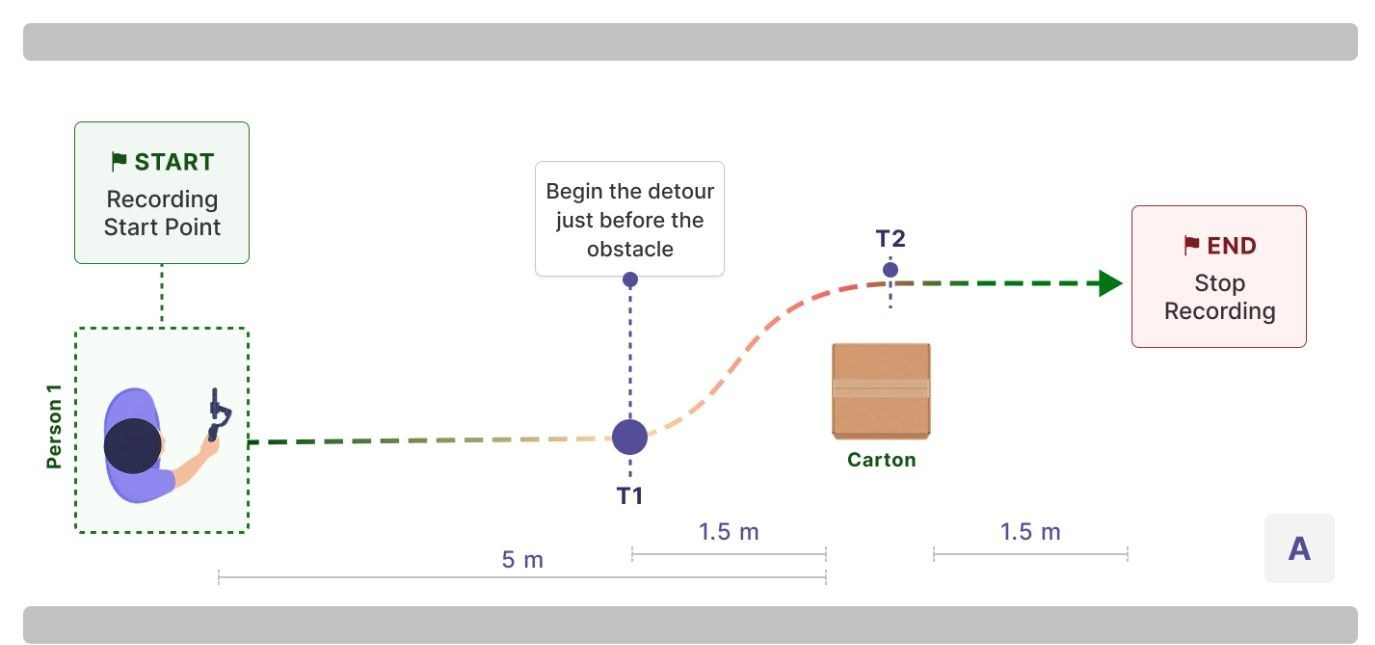
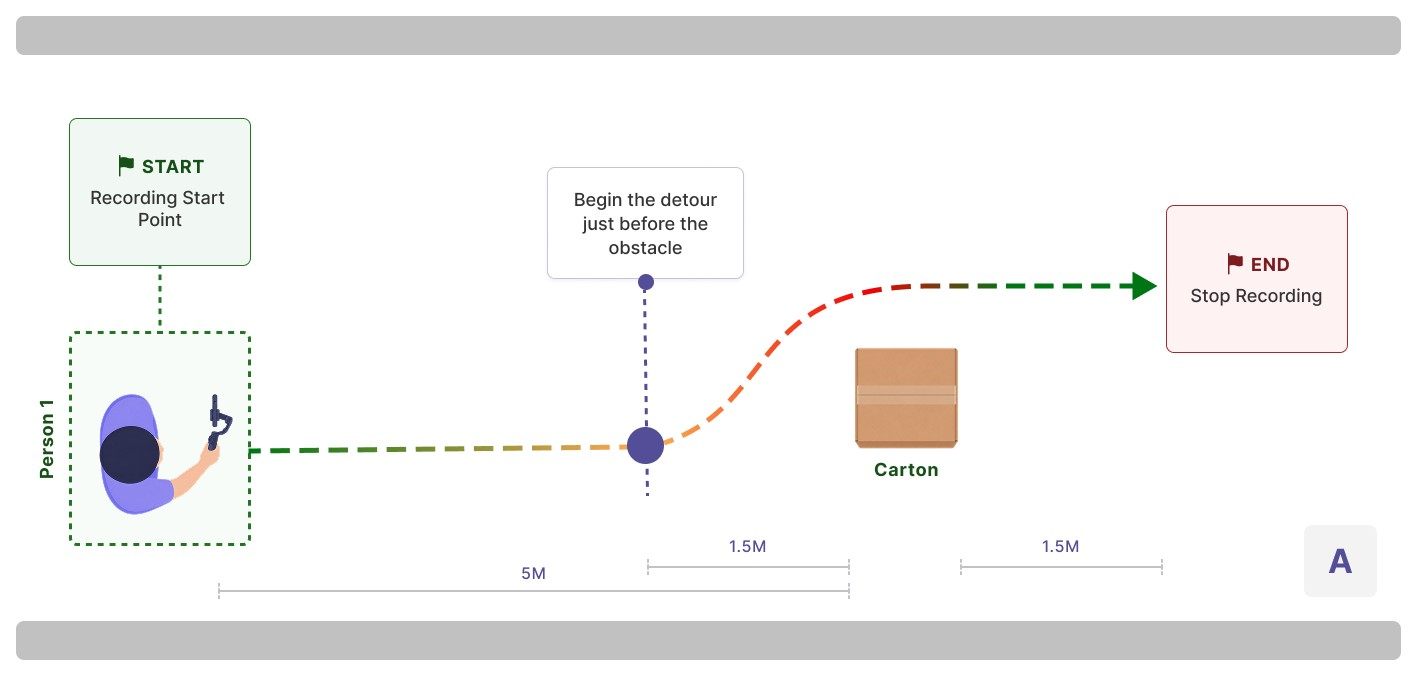
Atualiza conteúdo e imagens do site
- Adiciona captura real do aplicativo e novos diagramas do protocolo,
  incluindo o cenário de caminho livre
- Adiciona link da pasta de imagens da base e e-mail de contato
- Revisa textos das seções Sobre, Base de dados, Metodologia,
  Publicações e Equipe

Claude-Session: https://claude.ai/code/session_012tSK8fbYagcHTFUYDj29Mi

diff --git a/index.html b/index.html
@@ -151,15 +151,13 @@ section{padding:112px 0}
 .intro-grid{display:grid;grid-template-columns:.85fr 1.15fr;gap:56px;align-items:center;margin-top:80px}
 .intro-copy h3{font-size:clamp(28px,3vw,38px);font-weight:600;margin:18px 0 16px}
 .intro-copy p{color:var(--ink-2)}
-.collage{display:grid;grid-template-columns:1.25fr .95fr;grid-template-rows:auto auto;gap:16px;align-items:start}
+.collage{display:grid;grid-template-columns:1fr 1fr;gap:16px;align-items:start}
 .c-card{margin:0;background:var(--surface);border-radius:var(--radius-l);overflow:hidden;box-shadow:var(--shadow);position:relative}
 .c-card img{width:100%;height:auto;background:#fff}
-.c-card figcaption{padding:12px 16px 14px;font-size:14px;color:var(--ink-2);line-height:1.45}
-.c-card figcaption strong{color:var(--ink);display:block;font-size:15px}
 .c-card .tag{position:absolute;top:12px;left:12px;font-size:12px;font-weight:600;background:rgba(13,21,32,.82);color:#fff;padding:4px 10px;border-radius:999px}
-.collage .c-c{grid-row:1/3;grid-column:2;margin-top:48px}
-@media (max-width:900px){.intro-grid{grid-template-columns:1fr;gap:40px}.collage{grid-template-columns:1fr 1fr}.collage .c-c{margin-top:0}}
-@media (max-width:560px){.collage{grid-template-columns:1fr}.collage .c-c{grid-row:auto;grid-column:auto}.collage .c-c img{max-height:440px;object-fit:contain}.big-statement .l2{padding-left:0}.big-statement{font-size:clamp(34px,10vw,44px)}}
+.collage .c-card:nth-child(even){margin-top:36px}
+@media (max-width:900px){.intro-grid{grid-template-columns:1fr;gap:40px}}
+@media (max-width:560px){.collage{grid-template-columns:1fr}.collage .c-card:nth-child(even){margin-top:0}.big-statement .l2{padding-left:0}.big-statement{font-size:clamp(34px,10vw,44px)}}
 
 /* =========================================================
    Sobre
@@ -180,17 +178,18 @@ section{padding:112px 0}
 /* =========================================================
    Base de dados
    ========================================================= */
-.events{display:grid;grid-template-columns:repeat(3,1fr);gap:16px;margin-bottom:56px}
+.events{display:grid;grid-template-columns:1fr 1fr;gap:16px;margin-bottom:20px}
 .event{margin:0;background:var(--surface);border-radius:var(--radius-l);overflow:hidden;box-shadow:var(--shadow);display:flex;flex-direction:column}
-.event .img{background:#fff;aspect-ratio:4/3;display:grid;place-items:center;padding:10px;border-bottom:1px solid var(--line)}
+.event .img{background:#fff;aspect-ratio:2/1;display:grid;place-items:center;padding:10px;border-bottom:1px solid var(--line)}
 .event .img{overflow:hidden}
-.event .img img{width:100%;height:100%;object-fit:contain}
+.event .img{position:relative}
+.event .img img{position:absolute;inset:10px;width:calc(100% - 20px);height:calc(100% - 20px);object-fit:contain}
 .event figcaption{padding:18px 20px 22px}
 .event figcaption h3{font-size:20px;font-weight:600;margin-bottom:6px;display:flex;gap:10px;align-items:center}
 .event figcaption h3 span{font-family:var(--mono);font-size:12px;font-weight:500;background:var(--sand);padding:2px 8px;border-radius:6px;letter-spacing:0}
 .event figcaption p{color:var(--ink-2);font-size:15px;margin:0}
 .source{font-size:13px;color:var(--ink-2);margin-top:-36px;margin-bottom:56px}
-@media (max-width:900px){.events{grid-template-columns:1fr}}
+@media (max-width:720px){.events{grid-template-columns:1fr}}
 
 .data-grid{display:grid;grid-template-columns:1.1fr .9fr;gap:20px}
 .panel{background:var(--surface);border-radius:var(--radius-l);padding:32px;box-shadow:var(--shadow)}
@@ -215,11 +214,12 @@ section{padding:112px 0}
 .chip{font-family:var(--mono);font-size:13px;background:var(--paper);border:1px solid var(--line);border-radius:8px;padding:4px 10px}
 @media (max-width:520px){.label-row{grid-template-columns:1fr;gap:8px}}
 
-.access{margin-top:20px;display:grid;grid-template-columns:auto 1fr;gap:20px;align-items:center;background:var(--ochre-soft);border-radius:var(--radius-l);padding:26px 28px}
+.access{margin-top:20px;display:grid;grid-template-columns:auto 1fr auto;gap:20px;align-items:center;background:var(--ochre-soft);border-radius:var(--radius-l);padding:26px 28px}
 .access .ic{width:48px;height:48px;border-radius:14px;background:#fff;display:grid;place-items:center;color:var(--ochre)}
 .access .ic svg{width:24px;height:24px}
 .access h3{font-size:19px;font-weight:600;margin-bottom:4px}
 .access p{margin:0;color:#5A4630;font-size:15px}
+@media (max-width:760px){.access{grid-template-columns:auto 1fr}.access .btn{grid-column:1/-1;justify-content:center}}
 
 /* =========================================================
    Aplicativo
@@ -236,6 +236,9 @@ section{padding:112px 0}
 .phone{position:relative;width:min(300px,78vw);aspect-ratio:9/19.2;border-radius:46px;background:#0A0F18;padding:12px;box-shadow:0 30px 80px rgba(0,0,0,.45),inset 0 0 0 2px #2B3442}
 .phone-screen{width:100%;height:100%;border-radius:36px;overflow:hidden;background:linear-gradient(170deg,#0B2B4F,#041D38);display:flex;flex-direction:column;align-items:center;justify-content:center;text-align:center;padding:28px 22px;position:relative}
 .phone-screen::before{content:"";position:absolute;top:12px;left:50%;transform:translateX(-50%);width:84px;height:22px;border-radius:999px;background:#0A0F18}
+.phone-screen.shot{padding:0;background:#000;display:block}
+.phone-screen.shot::before{display:none}
+.phone-screen.shot img{display:block;width:100%;height:100%;object-fit:cover;border-radius:0;margin:0;box-shadow:none}
 .phone-screen img{width:96px;height:96px;border-radius:24px;margin-bottom:22px;box-shadow:0 10px 30px rgba(0,0,0,.35)}
 .phone-screen .app-name{font-family:var(--display);font-size:28px;font-weight:700;letter-spacing:-.03em}
 .phone-screen .app-ver{font-family:var(--mono);font-size:12px;color:rgba(255,255,255,.7);margin-top:4px}
@@ -319,7 +322,8 @@ section{padding:112px 0}
 /* =========================================================
    Repositórios e contato
    ========================================================= */
-.links-grid{display:grid;grid-template-columns:repeat(3,1fr);gap:16px}
+.links-grid{display:grid;grid-template-columns:repeat(4,1fr);gap:16px}
+@media (max-width:1100px){.links-grid{grid-template-columns:1fr 1fr}}
 .link-card{display:flex;flex-direction:column;gap:10px;background:var(--surface);border-radius:var(--radius-l);padding:28px;box-shadow:var(--shadow);text-decoration:none;color:var(--ink);transition:transform .2s ease,box-shadow .2s ease;border:1.5px solid transparent}
 a.link-card:hover{transform:translateY(-3px);box-shadow:0 14px 40px rgba(13,21,32,.1);color:var(--ink);border-color:var(--blue-soft)}
 .link-card .ic{width:44px;height:44px;border-radius:12px;background:var(--paper);display:grid;place-items:center}
@@ -329,7 +333,7 @@ a.link-card:hover{transform:translateY(-3px);box-shadow:0 14px 40px rgba(13,21,3
 .link-card .url{font-family:var(--mono);font-size:13px;color:var(--blue);margin-top:auto;word-break:break-all}
 .link-card.pending{background:transparent;box-shadow:none;border:1.5px dashed var(--line)}
 .link-card.pending .url{color:var(--ink-2)}
-@media (max-width:900px){.links-grid{grid-template-columns:1fr}}
+@media (max-width:620px){.links-grid{grid-template-columns:1fr}}
 
 /* rodapé */
 footer{background:var(--ink);color:rgba(255,255,255,.8);padding:72px 0 40px;margin:12px;border-radius:var(--radius-xl)}
@@ -479,7 +483,7 @@ footer{background:var(--ink);color:rgba(255,255,255,.8);padding:72px 0 40px;marg
       <dl>
         <div class="cell"><dt>Tipo de dado</dt><dd>Vídeo egocêntrico + sensores inerciais</dd></div>
         <div class="cell"><dt>Cenário</dt><dd>Ambientes internos, múltiplos locais</dd></div>
-        <div class="cell"><dt>Eventos</dt><dd>Desvio à esquerda, à direita e parada</dd></div>
+        <div class="cell"><dt>Eventos</dt><dd>Caminho livre, desvios à esquerda e à direita, parada</dd></div>
         <div class="cell"><dt>Coleta</dt><dd>Aplicativo Android SenseCV</dd></div>
       </dl>
       <a class="go" href="#sobre">Saiba mais <svg aria-hidden="true"><use href="#i-down"/></svg></a>
@@ -490,7 +494,6 @@ footer{background:var(--ink);color:rgba(255,255,255,.8);padding:72px 0 40px;marg
 <section class="intro" aria-labelledby="intro-title">
   <div class="wrap">
     <div class="intro-head reveal">
-      <span class="pill eyebrow"><span class="dot"></span>Projeto de pesquisa · IFCE</span>
       <h2 class="big-statement" id="intro-title"><span class="l1">Dados que ajudam&nbsp;a</span><span class="l2"><em>entender o caminho</em></span></h2>
       <div class="route" aria-hidden="true"><span class="start"></span><span class="track"></span><svg class="target"><use href="#i-target"/></svg></div>
     </div>
@@ -508,21 +511,22 @@ footer{background:var(--ink);color:rgba(255,255,255,.8);padding:72px 0 40px;marg
       <div class="collage reveal" role="group" aria-label="Diagramas do protocolo de coleta do SenseCV">
         <figure class="c-card">
           <span class="tag">Desvio à esquerda</span>
-          <img src="assets/protocolo-a.jpg" alt="Diagrama visto de cima: a pessoa sai do ponto de início, segue em linha reta, começa a desviar no instante T1 pouco antes de uma caixa de papelão e termina o desvio em T2, encerrando a gravação adiante." width="1375" height="645" loading="lazy">
-        </figure>
-        <figure class="c-card c-c">
-          <span class="tag">Parada</span>
-          <img src="assets/protocolo-c.jpg" alt="Diagrama visto de cima: a pessoa caminha em direção a uma mesa de estudo com duas pessoas sentadas e para entre os instantes T1 e T2, antes de alcançá-las." width="653" height="1311" loading="lazy">
-          <figcaption><strong>Protocolo de coleta</strong>Diagramas do pôster SenseCV (SIBGRAPI 2026).</figcaption>
+          <img src="assets/protocolo-a.jpg" alt="Diagrama visto de cima: a pessoa sai do ponto de início da gravação, segue em linha reta por um corredor, começa o desvio pouco antes de uma caixa de papelão, contorna o obstáculo e encerra a gravação adiante." width="1417" height="674" loading="lazy">
         </figure>
         <figure class="c-card">
           <span class="tag">Desvio à direita</span>
-          <img src="assets/protocolo-b.jpg" alt="Diagrama visto de cima: a pessoa segue em linha reta e desvia de outra pessoa parada no corredor, começando o desvio em T1 e concluindo em T2." width="1375" height="661" loading="lazy">
+          <img src="assets/protocolo-b.jpg" alt="Diagrama visto de cima: a pessoa segue em linha reta por um corredor, começa o desvio pouco antes de outra pessoa parada no caminho, contorna pelo outro lado e encerra a gravação adiante." width="1417" height="674" loading="lazy">
+        </figure>
+        <figure class="c-card">
+          <span class="tag">Parada</span>
+          <img src="assets/protocolo-c.jpg" alt="Diagrama visto de cima: a pessoa sai do ponto de início, caminha em linha reta por um corredor em direção a uma mesa de estudo com duas pessoas e para antes de alcançá-las, onde a gravação é encerrada." width="1344" height="676" loading="lazy">
+        </figure>
+        <figure class="c-card">
+          <span class="tag">Caminho livre</span>
+          <img src="assets/protocolo-d.jpg" alt="Diagrama visto de cima: a pessoa sai do ponto de início e caminha em linha reta até o fim do corredor, sem obstáculo no trajeto; uma mesa de estudo fica ao lado, fora do caminho." width="1312" height="644" loading="lazy">
         </figure>
       </div>
     </div>
-
-</div>
   </div>
 </section>
 
@@ -533,7 +537,6 @@ footer{background:var(--ink);color:rgba(255,255,255,.8);padding:72px 0 40px;marg
   <div class="wrap">
     <div class="section-head reveal">
       <div><span class="pill eyebrow"><span class="dot"></span><span class="num">02</span> Sobre o SenseCV</span><h2 id="sobre-title">Por que mais um dataset?</h2></div>
-      <p>Porque avaliar bem é tão importante quanto treinar bem. O SenseCV foi pensado para medir o que acontece quando um modelo encontra um ambiente novo.</p>
     </div>
 
     <div class="about-problem reveal">
@@ -572,31 +575,32 @@ footer{background:var(--ink);color:rgba(255,255,255,.8);padding:72px 0 40px;marg
   <div class="wrap">
     <div class="section-head reveal">
       <div><span class="pill eyebrow"><span class="dot"></span><span class="num">03</span> Base de dados</span><h2 id="base-title">A base SenseCV</h2></div>
-      <p>Gravações curtas organizadas por evento: cada uma registra uma pessoa caminhando em um ambiente interno e realizando um desvio ou uma parada diante de um obstáculo.</p>
+      <p>Gravações curtas organizadas por evento: cada uma registra uma pessoa caminhando em um ambiente interno, com o caminho livre ou realizando um desvio ou uma parada diante de um obstáculo.</p>
     </div>
 
     <div class="events">
       <figure class="event reveal">
-        <div class="img"><img src="assets/protocolo-a.jpg" alt="Diagrama do evento de desvio à esquerda, contornando uma caixa de papelão." width="1375" height="645" loading="lazy"></div>
+        <div class="img"><img src="assets/protocolo-a.jpg" alt="Diagrama do evento de desvio à esquerda, contornando uma caixa de papelão." width="1417" height="674" loading="lazy"></div>
         <figcaption><h3>Desvio à esquerda <span>A</span></h3><p>A pessoa contorna um obstáculo no corredor — no protocolo, uma caixa de papelão.</p></figcaption>
       </figure>
       <figure class="event reveal">
-        <div class="img"><img src="assets/protocolo-b.jpg" alt="Diagrama do evento de desvio à direita, contornando outra pessoa." width="1375" height="661" loading="lazy"></div>
+        <div class="img"><img src="assets/protocolo-b.jpg" alt="Diagrama do evento de desvio à direita, contornando outra pessoa." width="1417" height="674" loading="lazy"></div>
         <figcaption><h3>Desvio à direita <span>B</span></h3><p>O obstáculo é outra pessoa parada no caminho, contornada pelo outro lado.</p></figcaption>
       </figure>
       <figure class="event reveal">
-        <div class="img"><img src="assets/protocolo-c.jpg" alt="Diagrama do evento de parada diante de uma mesa com duas pessoas." width="653" height="1311" loading="lazy"></div>
+        <div class="img"><img src="assets/protocolo-c.jpg" alt="Diagrama do evento de parada diante de uma mesa com duas pessoas." width="1344" height="676" loading="lazy"></div>
         <figcaption><h3>Parada <span>C</span></h3><p>A pessoa caminha em direção a um obstáculo e para antes de alcançá-lo.</p></figcaption>
       </figure>
+      <figure class="event reveal">
+        <div class="img"><img src="assets/protocolo-d.jpg" alt="Diagrama do evento de caminho livre: a pessoa segue em linha reta até o fim do corredor." width="1312" height="644" loading="lazy"></div>
+        <figcaption><h3>Caminho livre <span>D</span></h3><p>Não há obstáculo no trajeto: a pessoa segue em linha reta até o fim da gravação.</p></figcaption>
+      </figure>
     </div>
-    <p class="source">Fonte: Figura 1 do pôster “SenseCV: A Multi-Location Egocentric Visual-Inertial Dataset for Assistive Navigation in Indoor Environments”.</p>
 
     <div class="data-grid">
       <div class="panel reveal">
         <h3>Números da base</h3>
-        <p>A base existe em duas versões: o <strong>dataset bruto</strong>, com todas as coletas, e o <strong>dataset revisado</strong> (congelado), usado nos experimentos. Os números de cada versão não devem ser misturados.</p>
-        <!-- EDITAR: valores informados a partir da apresentação de qualificação.
-             Após a conferência, remova o bloco .check-row abaixo. -->
+        <p>A base existe em duas versões: o <strong>dataset bruto</strong>, com todas as coletas, e o <strong>dataset revisado</strong> (congelado), usado nos experimentos.</p>
         <div class="versions">
           <div class="version">
             <h4>Dataset bruto</h4>
@@ -614,10 +618,10 @@ footer{background:var(--ink);color:rgba(255,255,255,.8);padding:72px 0 40px;marg
             <dl>
               <dt>Eventos</dt><dd>818</dd>
               <dt>Frames</dt><dd>99.135</dd>
+              <dt>Ambientes</dt><dd>9</dd>
             </dl>
           </div>
         </div>
-        <div class="check-row"><span class="badge-check">Valores a conferir</span><span>Informados com base na apresentação de qualificação, ainda não conferidos no documento original.</span></div>
       </div>
 
       <div class="panel reveal">
@@ -628,17 +632,16 @@ footer{background:var(--ink);color:rgba(255,255,255,.8);padding:72px 0 40px;marg
           <div class="label-row"><span class="lk">Direção de desvio</span><div class="chips"><span class="chip">LEFT</span><span class="chip">RIGHT</span><span class="chip">NO DEVIATION</span></div></div>
           <div class="label-row"><span class="lk">Dados por evento</span><div class="chips"><span class="chip">vídeo</span><span class="chip">acelerômetro</span><span class="chip">giroscópio</span><span class="chip">magnetômetro</span><span class="chip">localização</span><span class="chip">metadados</span></div></div>
         </div>
-        <p style="font-size:14px;margin:18px 0 0">Detalhes da rotulagem em <a href="#metodologia">Metodologia</a>.</p>
       </div>
     </div>
 
-    <!-- EDITAR: quando houver link real de acesso à base, troque este bloco por um botão. -->
-    <div class="access reveal" role="note">
+    <div class="access reveal">
       <div class="ic" aria-hidden="true"><svg><use href="#i-db"/></svg></div>
       <div>
-        <h3>Acesso à base</h3>
-        <p>Informações de acesso à base, documentação e condições de uso serão disponibilizadas nesta página.</p>
+        <h3>Acesso às imagens</h3>
+        <p>As imagens da base SenseCV estão disponíveis em uma pasta pública no Google Drive.</p>
       </div>
+      <a class="btn btn-dark" href="https://drive.google.com/drive/folders/1jgrDH1dpr8MdhZiJmi0aBYZ9k8JPrGbi?usp=sharing">Acessar a pasta no Google Drive <svg aria-hidden="true"><use href="#i-arrow"/></svg></a>
     </div>
   </div>
 </section>
@@ -656,16 +659,12 @@ footer{background:var(--ink);color:rgba(255,255,255,.8);padding:72px 0 40px;marg
     <div class="app-grid">
       <div class="phone-stage reveal">
         <div>
-          <!-- EDITAR: substitua o conteúdo de .phone-screen por <img src="assets/app-captura.png" alt="..."> quando houver captura de tela real do app. -->
-          <div class="phone" role="img" aria-label="Moldura de smartphone com o ícone oficial do aplicativo SenseCV. A captura de tela real da interface ainda será adicionada.">
-            <div class="phone-screen">
-              <img src="assets/sensecv-icone.png" alt="" width="96" height="96">
-              <div class="app-name">SenseCV</div>
-              <div class="app-ver">Android · v0.2.5</div>
-              <div class="pending">Captura de tela da tela de gravação será adicionada em breve.</div>
+          <div class="phone">
+            <div class="phone-screen shot">
+              <img src="assets/app-captura.jpg" alt="Captura de tela do aplicativo SenseCV: a pré-visualização da câmera mostra um corredor interno; no alto, um painel exibe coordenadas, estado do GPS, leituras de giroscópio, acelerômetro e magnetômetro e a orientação do aparelho; embaixo, botões para trocar de câmera, abrir as configurações e iniciar a gravação." width="738" height="1600">
             </div>
           </div>
-          <p class="phone-caption" style="margin-inline:auto">Ícone oficial do aplicativo, do repositório do projeto.</p>
+          <p class="phone-caption" style="margin-inline:auto">Tela de gravação do SenseCV, com a pré-visualização da câmera e as leituras dos sensores.</p>
         </div>
       </div>
 
@@ -701,7 +700,7 @@ footer{background:var(--ink);color:rgba(255,255,255,.8);padding:72px 0 40px;marg
       </div>
       <div class="reveal">
         <h3>Sobre o código</h3>
-        <p>O aplicativo é escrito para Android e é baseado no projeto de código aberto <a href="https://github.com/waiwnf/pilotguru">PilotGuru Recorder</a>, adaptado para a coleta do SenseCV. Segundo o repositório, a versão atual é a v0.2.5 e o uso previsto é acadêmico e de pesquisa.</p>
+        <p>O aplicativo é escrito para Android e é baseado no projeto de código aberto <a href="https://github.com/waiwnf/pilotguru">PilotGuru Recorder</a>, adaptado para a coleta do SenseCV. A versão atual é a v0.2.5, e o uso previsto é acadêmico e de pesquisa.</p>
         <p>O repositório descreve um procedimento recomendado para cada sessão: informar o nome de quem coleta, escolher FPS, lente e resolução, conferir a orientação, gravar e confirmar o número sugerido para a gravação.</p>
         <div class="note"><svg aria-hidden="true"><use href="#i-info"/></svg><span>A disponibilidade da câmera ultrawide e do controle Bluetooth depende do modelo do celular.</span></div>
       </div>
@@ -720,12 +719,11 @@ footer{background:var(--ink);color:rgba(255,255,255,.8);padding:72px 0 40px;marg
     </div>
 
     <ol class="steps">
-      <li class="step reveal"><div class="n">01</div><h3>Coleta guiada</h3><p>Gravações com o app SenseCV seguindo o protocolo: início em um ponto marcado, aproximação do obstáculo, desvio ou parada e fim da gravação.</p></li>
+      <li class="step reveal"><div class="n">01</div><h3>Coleta guiada</h3><p>Gravações com o app SenseCV seguindo o protocolo: início em um ponto marcado, caminhada com o caminho livre ou aproximação do obstáculo com desvio ou parada, e fim da gravação.</p></li>
       <li class="step reveal"><div class="n">02</div><h3>Organização por evento</h3><p>Cada gravação é um evento com seu vídeo, dados de sensores e metadados, agrupados por coleta e por ambiente.</p></li>
       <li class="step reveal"><div class="n">03</div><h3>Delimitação pelos sensores</h3><p>Acelerômetro e giroscópio estimam o início (T1) e o fim (T2) de cada manobra.</p></li>
       <li class="step reveal"><div class="n">04</div><h3>Rotulagem dos frames</h3><p>Apenas os frames anteriores ao início da ação são usados pelo modelo, cada um com condição do caminho e direção de desvio.</p></li>
-      <li class="step reveal"><div class="n">05</div><h3>Amostragem temporal</h3><p>A taxa de 30 FPS é comparada a 10 FPS para reduzir frames quase repetidos.</p></li>
-      <li class="step reveal"><div class="n">06</div><h3>Avaliação em local não visto</h3><p>A separação é feita por ambiente: o local de teste não aparece no treinamento.</p></li>
+      <li class="step reveal"><div class="n">05</div><h3>Avaliação em local não visto</h3><p>A separação é feita por ambiente: o local de teste não aparece no treinamento.</p></li>
     </ol>
 
     <div class="method-detail">
@@ -770,7 +768,6 @@ footer{background:var(--ink);color:rgba(255,255,255,.8);padding:72px 0 40px;marg
   <div class="wrap">
     <div class="section-head reveal">
       <div><span class="pill eyebrow"><span class="dot"></span><span class="num">06</span> Publicações</span><h2 id="pub-title">Trabalhos do projeto</h2></div>
-      <p>Artigos, pôsteres e materiais associados ao SenseCV. Novos trabalhos serão adicionados aqui.</p>
     </div>
 
     <!-- EDITAR: para nova publicação, duplique o <article class="pub">. -->
@@ -805,14 +802,14 @@ footer{background:var(--ink);color:rgba(255,255,255,.8);padding:72px 0 40px;marg
       <article class="person reveal">
         <div class="avatar" aria-hidden="true">AP</div>
         <h3>André Luis Albuquerque Pinheiro</h3>
-        <p class="role">Aluno pesquisador</p>
+        <p class="role">Mestrando em Ciência da Computação</p>
         <p class="inst">IFCE</p>
         <p class="links">Links profissionais serão adicionados.</p>
       </article>
       <article class="person reveal">
         <div class="avatar" aria-hidden="true">IO</div>
         <h3>Isaque Oliveira</h3>
-        <p class="role">Coautor do pôster SenseCV</p>
+        <p class="role">Graduando em Engenharia da Computação</p>
         <p class="inst">IFCE</p>
         <p class="links">Links profissionais serão adicionados.</p>
       </article>
@@ -824,7 +821,7 @@ footer{background:var(--ink);color:rgba(255,255,255,.8);padding:72px 0 40px;marg
         <p class="links">Links profissionais serão adicionados.</p>
       </article>
     </div>
-    <div class="inst-row reveal"><span>Vínculos institucionais indicados no pôster:</span><span class="i">IFCE · Campus Fortaleza</span><span class="i">PPGCC — Programa de Pós-Graduação em Ciência da Computação</span><span class="i">LIT — Laboratório de Inovação Tecnológica</span></div>
+    <div class="inst-row reveal"><span class="i">IFCE · Campus Fortaleza</span><span class="i">PPGCC — Programa de Pós-Graduação em Ciência da Computação</span><span class="i">LIT — Laboratório de Inovação Tecnológica</span></div>
   </div>
 </section>
 
@@ -835,9 +832,14 @@ footer{background:var(--ink);color:rgba(255,255,255,.8);padding:72px 0 40px;marg
   <div class="wrap">
     <div class="section-head reveal">
       <div><span class="pill eyebrow"><span class="dot"></span><span class="num">08</span> Repositórios e contato</span><h2 id="links-title">Código, dados e contato</h2></div>
-      <p>Links oficiais do projeto. Itens ainda não disponíveis aparecem sinalizados.</p>
     </div>
     <div class="links-grid">
+      <a class="link-card reveal" href="https://drive.google.com/drive/folders/1jgrDH1dpr8MdhZiJmi0aBYZ9k8JPrGbi?usp=sharing">
+        <span class="ic" aria-hidden="true"><svg><use href="#i-db"/></svg></span>
+        <h3>Imagens da base</h3>
+        <p>Pasta pública com as imagens da base SenseCV.</p>
+        <span class="url">Google Drive</span>
+      </a>
       <a class="link-card reveal" href="https://github.com/SenseCV/App">
         <span class="ic" aria-hidden="true"><svg><use href="#i-github"/></svg></span>
         <h3>Repositório do aplicativo</h3>
@@ -847,15 +849,15 @@ footer{background:var(--ink);color:rgba(255,255,255,.8);padding:72px 0 40px;marg
       <a class="link-card reveal" href="https://github.com/SenseCV">
         <span class="ic" aria-hidden="true"><svg><use href="#i-github"/></svg></span>
         <h3>SenseCV no GitHub</h3>
-        <p>Organização do projeto no GitHub, indicada no QR code do pôster.</p>
+        <p>Organização do projeto no GitHub.</p>
         <span class="url">github.com/SenseCV</span>
       </a>
-      <div class="link-card pending reveal">
+      <a class="link-card reveal" href="mailto:sensecvifce@gmail.com">
         <span class="ic" aria-hidden="true"><svg><use href="#i-mail"/></svg></span>
         <h3>Contato</h3>
-        <p>Um canal de contato do projeto será divulgado aqui. Até lá, acompanhe o projeto pelo GitHub.</p>
-        <span class="url">Em breve</span>
-      </div>
+        <p>Dúvidas, colaborações ou interesse no projeto? Escreva para a equipe.</p>
+        <span class="url">sensecvifce@gmail.com</span>
+      </a>
     </div>
   </div>
 </section>
@@ -883,8 +885,10 @@ footer{background:var(--ink);color:rgba(255,255,255,.8);padding:72px 0 40px;marg
       <div>
         <h2>Projeto</h2>
         <ul>
+          <li><a href="https://drive.google.com/drive/folders/1jgrDH1dpr8MdhZiJmi0aBYZ9k8JPrGbi?usp=sharing">Imagens da base (Google Drive)</a></li>
           <li><a href="https://github.com/SenseCV/App">Repositório do aplicativo</a></li>
           <li><a href="https://github.com/SenseCV">SenseCV no GitHub</a></li>
+          <li><a href="mailto:sensecvifce@gmail.com">sensecvifce@gmail.com</a></li>
         </ul>
       </div>
     </div>
